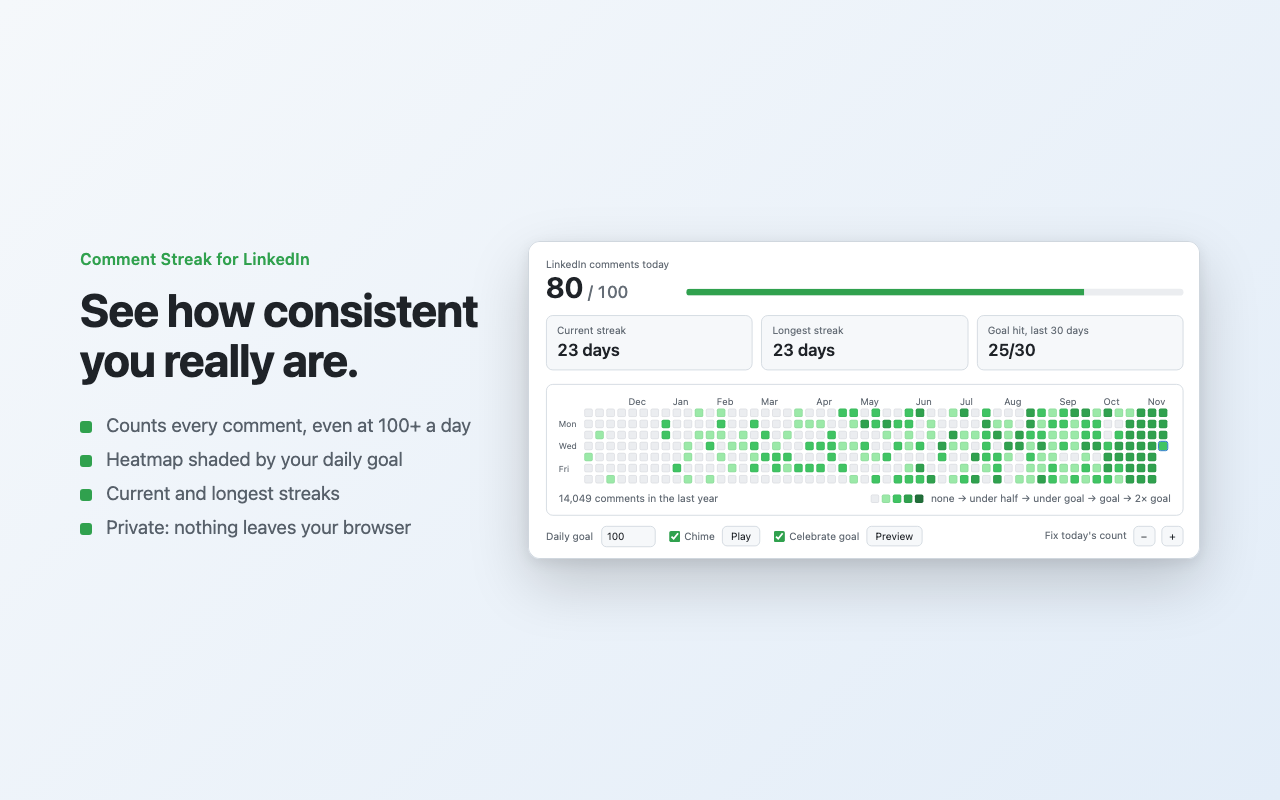
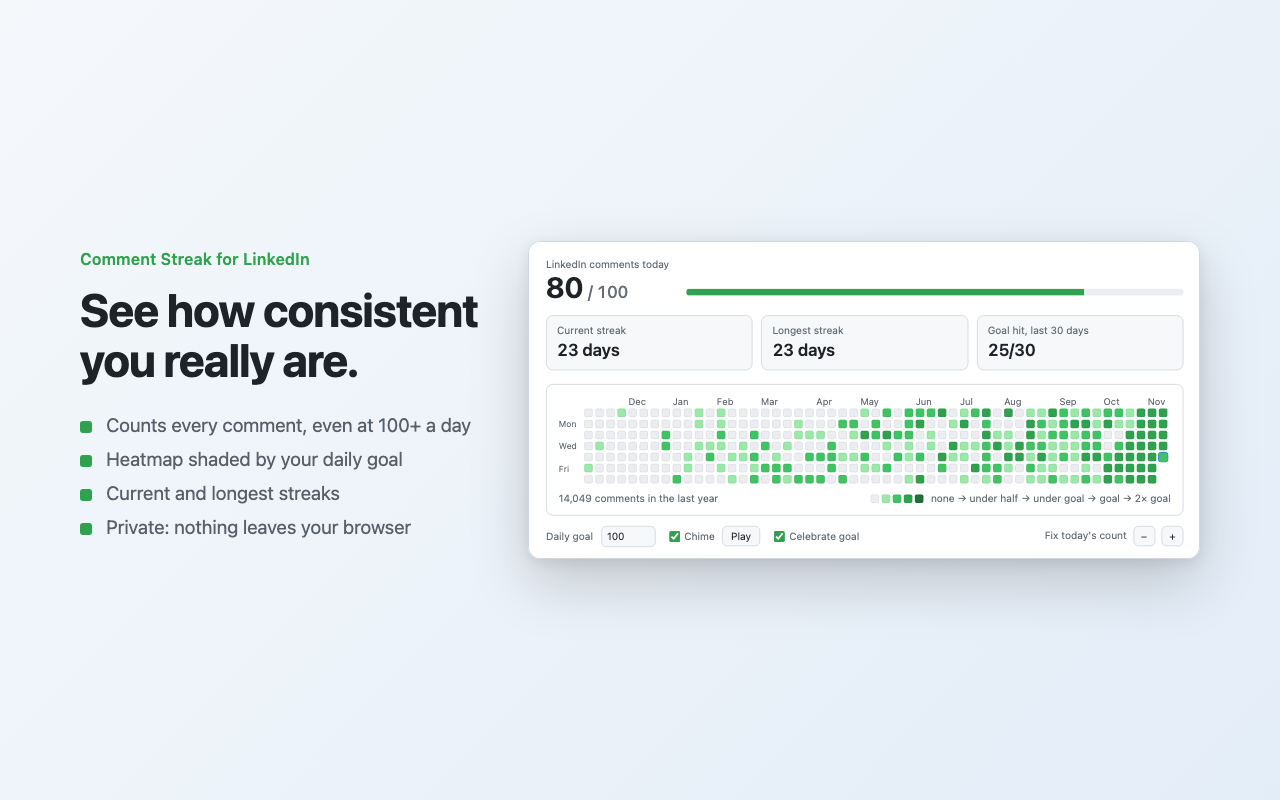
Move the celebration preview to Shift+Play
The Preview button is gone. Shift-clicking Play on a LinkedIn tab now
previews the whole goal moment: the goal chime (played by the background
worker, since the popup closes) and the celebration. Off LinkedIn it plays
the chime only and says to open LinkedIn. Store screenshots updated.

Changed region(s): [[0.5, 0.5, 0.9062, 0.625], [0.6875, 0.6562, 0.7188, 0.6875], [0.4375, 0.5625, 0.4688, 0.5938]]

diff --git a/extension/popup.js b/extension/popup.js
@@ -60,26 +60,29 @@ $("goal").addEventListener("change", (e) => {
   else render();
 });
 $("sound").addEventListener("change", (e) => chrome.storage.local.set({ sound: e.target.checked }));
-// Click once for the normal ding, shift-click to hear the goal chime.
-$("testChime").addEventListener("click", (e) => playChime(e.shiftKey));
 $("celebrate").addEventListener("change", (e) => chrome.storage.local.set({ celebrate: e.target.checked }));
 
-// Shows the goal celebration on the LinkedIn tab you're looking at, as if
-// today's comment had just reached the goal.
-$("preview").addEventListener("click", async () => {
+// Click: the normal ding. Shift-click: the whole goal moment (goal chime and
+// celebration) on the LinkedIn tab you're looking at, as if today's comment
+// had just reached the goal. Off LinkedIn, Shift-click plays the chime only.
+$("testChime").addEventListener("click", async (e) => {
+  if (!e.shiftKey) return playChime(false);
+
   const { counts = {}, goal = DEFAULT_GOAL } = await chrome.storage.local.get(["counts", "goal"]);
   const key = dayKey();
   const data = celebration({ ...counts, [key]: Math.max(counts[key] || 0, goal) }, goal);
   const [tab] = await chrome.tabs.query({ active: true, currentWindow: true });
   try {
     await chrome.tabs.sendMessage(tab.id, { type: "celebrate", data });
+    chrome.runtime.sendMessage({ type: "goalChime" });
     window.close();
   } catch {
     // No listener: not LinkedIn, or a LinkedIn tab opened before this version.
+    playChime(true);
     const onLinkedIn = /^https:\/\/www\.linkedin\.com\//.test(tab?.url || "");
-    const btn = $("preview");
-    btn.textContent = onLinkedIn ? "Refresh LinkedIn first" : "Open LinkedIn first";
-    setTimeout(() => (btn.textContent = "Preview"), 2500);
+    const btn = $("testChime");
+    btn.textContent = onLinkedIn ? "Refresh LinkedIn to see it" : "Open LinkedIn to see it";
+    setTimeout(() => (btn.textContent = "Play"), 2500);
   }
 });
 $("plus").addEventListener("click", () => chrome.runtime.sendMessage({ type: "adjust", delta: 1 }));

diff --git a/extension/background.js b/extension/background.js
@@ -40,11 +40,14 @@ async function ensureOffscreen() {
   await creating;
 }
 
+async function ring(goalHit) {
+  await ensureOffscreen();
+  await chrome.runtime.sendMessage({ target: "offscreen", type: "chime", goalHit });
+}
+
 async function chime(todayCount) {
   const { sound = true, goal = DEFAULT_GOAL } = await chrome.storage.local.get(["sound", "goal"]);
-  if (!sound) return;
-  await ensureOffscreen();
-  await chrome.runtime.sendMessage({ target: "offscreen", type: "chime", goalHit: todayCount === goal });
+  if (sound) await ring(todayCount === goal);
 }
 
 // --- Goal celebration ------------------------------------------------------
@@ -98,6 +101,9 @@ chrome.runtime.onMessage.addListener((msg, _sender, sendResponse) => {
     adjustToday(msg.delta).then(() => sendResponse(true));
     return true;
   }
+  // Shift+Play in the popup: the goal chime, played here because the popup
+  // closes as soon as the celebration opens.
+  if (msg?.type === "goalChime") ring(true).catch((err) => console.warn("[LCS] chime failed", err));
 });
 
 chrome.storage.onChanged.addListener(() => refreshBadge());

diff --git a/extension/popup.html b/extension/popup.html
@@ -40,12 +40,9 @@
       <label>Daily goal <input id="goal" type="number" min="1" max="1000" /></label>
       <span class="pair">
         <label class="toggle"><input id="sound" type="checkbox" /> Chime</label>
-        <button id="testChime" class="text" title="Hear the chime">Play</button>
+        <button id="testChime" class="text" title="Hear the chime. Shift-click on a LinkedIn tab to preview the whole goal moment.">Play</button>
       </span>
-      <span class="pair">
-        <label class="toggle"><input id="celebrate" type="checkbox" /> Celebrate goal</label>
-        <button id="preview" class="text" title="Show the goal celebration on your LinkedIn tab">Preview</button>
-      </span>
+      <label class="toggle"><input id="celebrate" type="checkbox" /> Celebrate goal</label>
     </span>
     <span class="fix">Fix today's count
       <button id="minus" title="Remove one">−</button>

diff --git a/README.md b/README.md
@@ -34,8 +34,8 @@ I made the same type of graph for LinkedIn comments. At 100 comments each day, y
   - Darkest green: two times your goal, or more
 
   The extension also shows your current streak and your longest streak. It also shows the number of days in the last 30 days that you reached your goal. Put the pointer on a day to see its count.
-- **A sound for each comment.** The extension plays a short two-note sound for each comment. When you reach your goal, it plays a brighter four-note sound. To hear the sound, click **Play**. To hear the goal sound, hold Shift and click **Play**. You can also set the sound to off.
-- **A celebration at the goal.** When you post the comment that completes your goal, the LinkedIn page goes dark. A card counts up to your goal. Then confetti in the heatmap colors bursts, and the square for today changes to green. The card shows your streak, your number of goal days, and the time that you completed the goal. The card stays until you close it. To see the card, click **Preview** in the popup. You can also set the celebration to off.
+- **A sound for each comment.** The extension plays a short two-note sound for each comment. When you reach your goal, it plays a brighter four-note sound. To hear the sound, click **Play**. To hear the goal sound, hold Shift and click **Play**. On a LinkedIn tab, this also shows the goal celebration. You can also set the sound to off.
+- **A celebration at the goal.** When you post the comment that completes your goal, the LinkedIn page goes dark. A card counts up to your goal. Then confetti in the heatmap colors bursts, and the square for today changes to green. The card shows your streak, your number of goal days, and the time that you completed the goal. The card stays until you close it. To see the full goal moment, open LinkedIn, hold Shift, and click **Play** in the popup. You can also set the celebration to off.
 - **⌘+Enter to post.** Press ⌘+Enter (Ctrl+Enter on Windows) to post the comment in the comment box.
 - **Manual correction.** If the count for today is not correct, use **−** and **+** to correct it.
 - **Privacy.** The extension has no account, no server, and no analytics. It does not read the text of your comments.

diff --git a/CHANGELOG.md b/CHANGELOG.md
@@ -3,7 +3,7 @@
 ## 1.4.0 — 2026-11-11
 
 - A goal celebration. When the comment that reaches your daily goal posts, LinkedIn dims and a card counts up to your goal, confetti made of heatmap squares bursts, and today's square fills in. The card shows your streak, how many goal days you have had, and the time you finished. It stays until you close it (button, Esc, or click outside), once per day.
-- "Celebrate goal" switch and a **Preview** button in the popup. Preview shows the celebration on the LinkedIn tab you are looking at.
+- "Celebrate goal" switch in the popup. Shift-click **Play** on a LinkedIn tab to preview the whole goal moment: the goal chime and the celebration.
 - No new permissions.
 
 ## 1.3.0 — 2026-11-08
